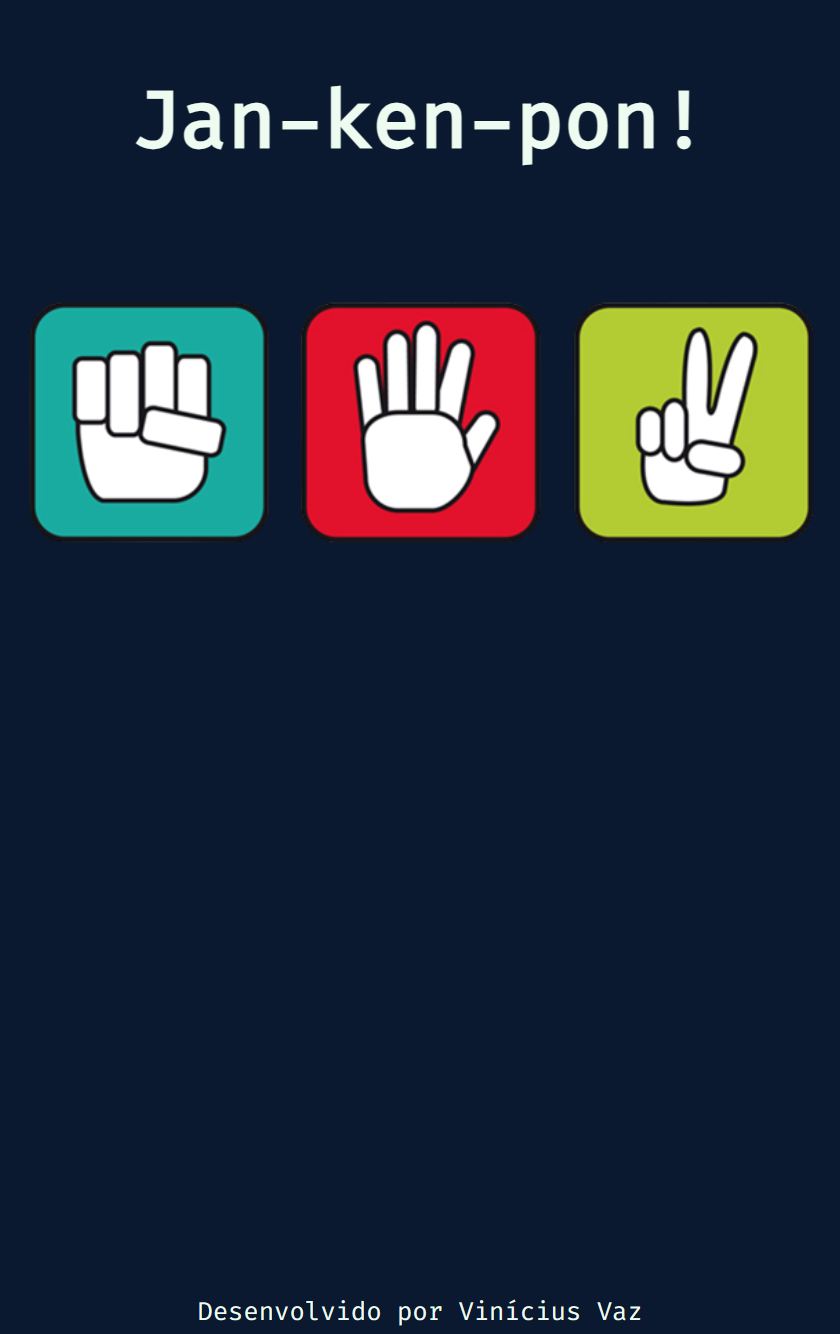
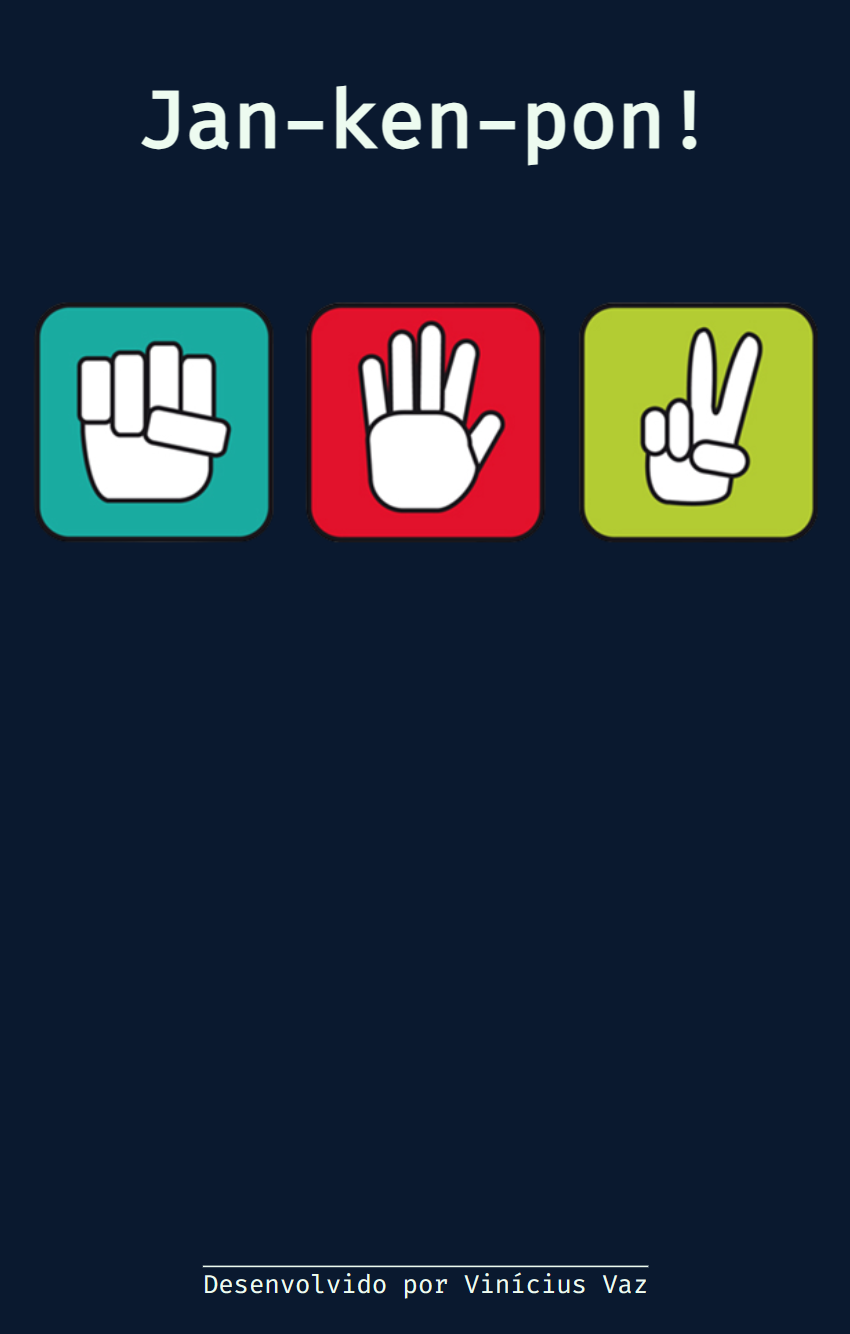
[fix]footer

diff --git a/style.css b/style.css
@@ -15,7 +15,7 @@ body {
 }
 
 main {
-   height: 92vh;
+   height: 90vh;
 }
 
 h1 {
@@ -49,6 +49,7 @@ div#player-choices {
 footer {
    font-size: 0.8rem;
    text-align: center;
+   text-decoration: overline;
 }
 
 @media (max-width: 580px) {

diff --git a/README.md b/README.md
@@ -2,11 +2,12 @@
 
 It's the first functionalgame that I'll be learning for the next few days a total of seven games will be taught in this course.
 <a>https://viniciusagvaz.github.io/game-jankenpo/</a>
+
 <hr>
 <h2 align="center"> Project: </h2>
 <div align="center">
-   <img width="200px" src="./assets/4.png" alt="">
    <img width="200px" src="./assets/1.png" alt="">
+   <img width="200px" src="./assets/4.png" alt="">
    <img width="200px" src="./assets/2.png" alt="">
    <img width="200px" src="./assets/3.png" alt="">
 </div>
@@ -39,8 +40,8 @@ It's the first functionalgame that I'll be learning for the next few days a tota
 <div align= "center">
 Check out her repositories at her GitHub page and the course itself:
 
-
 <a>https://github.com/kubowania</a>
 
 <a>https://www.youtube.com/watch?v=ec8vSKJuZTk</a>
+
 </div>
